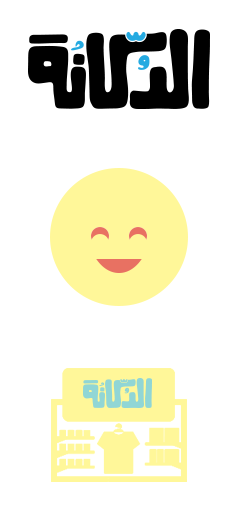
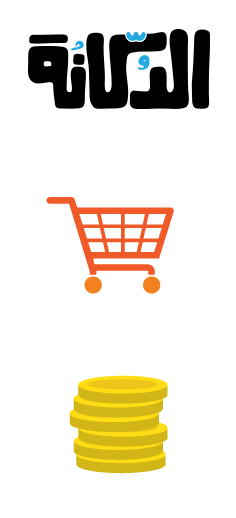
buttons and select one of 2 options pages

Changed region(s): [[0.2076, 0.7104, 0.8008, 0.9575], [0.178, 0.3089, 0.8008, 0.6178]]

diff --git a/css/main.css b/css/main.css
@@ -142,9 +142,9 @@ body {
 }*/
 .VidContainer {
 	margin:10px auto;
-	width:40%;
-	height:40%;
-	max-height:340px;
+	width:50%;
+	height:50%;
+	max-height:400px;
 	border:10px solid #ffffff;
 }
 .VidWrapper {
@@ -174,16 +174,38 @@ body {
 	text-decoration: none;
 }
 .DbtnRed {
-	background: #e87162;
-	border-bottom: 8px solid #b5584c;
+	position: relative;
+    color: #ffffff;
+    text-decoration: none;
+    background-color: #e87162;
+    padding: 10px 15px;
+    -webkit-border-radius: 8px;
+    -moz-border-radius: 8px;
+    border-radius: 8px;
+    -webkit-box-shadow: 0px 9px 0px #b5584c;
+    -moz-box-shadow: 0px 9px 0px #b5584c;
+    box-shadow: 0px 9px 0px #b5584c;
+    margin: 10px auto 0;
+	text-align: center;
+	
+	-webkit-transition: all .01s ease;
+	-moz-transition: all .01s ease;
+	-ms-transition: all .01s ease;
+	-o-transition: all .01s ease;
+	transition: all .01s ease;
+	
+	/* background: #e87162;
+	border-bottom: 8px solid #b5584c; */
 }
-.DbtnRed:hover {
-	background: #B5584C;
-}
+
 .DbtnRed:active {
-	background: #e87162;
-	border-bottom: 8px solid #E87162;
+    -webkit-box-shadow: 0px 3px 0px rgba(219,31,5,1);
+    -moz-box-shadow: 0px 3px 0px rgba(219,31,5,1);
+    box-shadow: 0px 3px 0px rgba(219,31,5,1);
+    position: relative;
+    top: 6px;
 }
+    
 footer {
 	background: #262626;
 	height: 80px;
@@ -208,29 +230,36 @@ footer {
 	background: #A6DEF3;
 }
 .rightContent {
-	width:49.7%;
+	width:50%;
 	height:100%;
 	/*background: #e87162;*/
 	float:right;
 }
 .leftContent {
-	width:49.7%;
+	width:50%;
 	height:100%;
 	/*background: #91d6d5;*/
 	float:left;
 }
-.BuyerContent,.CSContent {
-	margin:40px auto 10px auto;
-	max-width: 450px;
+.BuyerContent{
+	margin:75px auto 0 10%;
+	max-width: 400px;
+}
+
+.CSContent {
+	margin:75px 10% 0 auto;
+	max-width: 400px;
 }
 
 .BuyerContent h1, .CSContent h1 {
-	margin: 0 0 20px 0;
-	color:#FFFFFF;
-	text-align: center;
+	margin: 0 0 0px 0;
+color: #FFFFFF;
+text-align: center;
+font-size: 1.5em;
 }
 .headTitle {
 	position: relative;
+	margin-top: -10px;
 }
 .Title {
 	width:180px;
@@ -246,34 +275,34 @@ footer {
 	line-height: 42px;
 } 
 .SmileyFace {
-	width:138px;
-	height:138px;
-	background: url('../img/assets.png') no-repeat -50px -168px; 
-	position: absolute;
-	top:-114px;
-	left:156px;
+width: 138px;
+height: 138px;
+background: url('../img/assets.png') no-repeat -40px -168px;
+position: absolute;
+top: -114px;
+left: 117px;
 }
 .DokkanaIcon {
-	width:136px;
-	height:114px;
-	background: url('../img/assets.png') no-repeat -50px -368px; 
-	position: absolute;
-	top:-108px;
-	left:156px;
+width: 126px;
+height: 114px;
+background: url('../img/assets.png') no-repeat -62px -355px;
+position: absolute;
+top: -108px;
+left: 145px;
 }
 .leftCurve {
-	width: 42px;
-	height: 46px;
-	position: absolute;
-	left:106px;
-	top:-10px;
+width: 42px;
+height: 46px;
+position: absolute;
+left: 80px;
+top: -10px;
 }
 .rightCurve {
-	width: 42px;
-	height: 46px;
-	position: absolute;
-	right:106px;
-	top:-10px;
+width: 42px;
+height: 46px;
+position: absolute;
+right: 79px;
+top: -10px;
 }
 .leftCurve .triContainer {
 	float:left;
@@ -325,28 +354,28 @@ border-color: transparent transparent transparent #de7323;
 
 }
 .topLeftShadow {
-	width: 0px;
+width: 0px;
 height: 0px;
 border-style: solid;
 border-width: 0 0 10px 14px;
 border-color: transparent transparent #b9601c transparent;
 position: absolute;
-top:-10px;
-left:134px;
+top: -10px;
+left: 109px;
 }
 .topRightShadow {
-	width: 0px;
+width: 0px;
 height: 0px;
 border-style: solid;
 border-width: 10px 0 0 14px;
 border-color: transparent transparent transparent #b9601c;
-position:absolute;
-top:-10px;
-right:134px;
+position: absolute;
+top: -10px;
+right: 108px;
 }
 
 .CSFeatures, .BuyerFeatures {
-	min-height: 200px;
+	min-height: 190px;
 	width: 100%;
 	border-radius:15px;
 	margin-top:-43px;
@@ -358,26 +387,44 @@ right:134px;
 	background: url('../img/ListStyle.png') repeat-y right top;
 	list-style-position: inside;
 	list-style: none;
-	margin-right: 15px;
+	margin: 0 10px 0 0;
 	
 }
 .CSFeatures ul li, .BuyerFeatures ul li {
-	color: #44B7E5;
-    font-size: 22px;
-    font-weight: 100;
-    line-height: 58px;
-    padding-right: 20px;
+color: #666;
+font-size: 1.2em;
+font-weight: 100;
+line-height: 60px;
+padding-right: 20px;
 }
-.DbtnBuyer {
-	background: #FFFFFF;
-	color:#B5584C;
-	border-bottom: 8px solid #b5584c;
+.DbtnBuyer , .DbtnCS{
+position: relative;
+color: #ffffff;
+text-decoration: none;
+background-color: #e87162;
+padding: 10px 15px;
+-webkit-border-radius: 8px;
+-moz-border-radius: 8px;
+border-radius: 8px;
+-webkit-box-shadow: 0px 9px 0px #b5584c;
+-moz-box-shadow: 0px 9px 0px #b5584c;
+box-shadow: 0px 9px 0px #b5584c;
+margin: 22px auto 0;
+text-align: center;
+-webkit-transition: all .01s ease;
+-moz-transition: all .01s ease;
+-ms-transition: all .01s ease;
+-o-transition: all .01s ease;
+transition: all .01s ease;
+font-size: 1.3em;
 }
-.DbtnCS {
-	background: #FFFFFF;
-	color:#5f8988;
-	border-bottom: 8px solid #5f8988;
-}
+ .DbtnBuyer:active , .DbtnCS:active{
+ 	  -webkit-box-shadow: 0px 3px 0px rgba(219,31,5,1);
+    -moz-box-shadow: 0px 3px 0px rgba(219,31,5,1);
+    box-shadow: 0px 3px 0px rgba(219,31,5,1);
+    position: relative;
+    top: 6px;
+ }
 #BuyerSelect, #CSSelect {
 	position: absolute;
 	top:0;

diff --git a/index.html b/index.html
@@ -111,6 +111,7 @@
 						<div class="DokkanaIcon"></div>
 						<div class="leftCurve">
 							<div class="rectangle"></div>
+							
 							<div class="triContainer">
 								<div class="topTri"></div>
 								<div class="bottomTri"></div>
@@ -152,9 +153,13 @@
 			<div class="logo">
 				<a href="#" class="LogoImg">الدكانه</a>
 			</div>
+			buyer
 		</div>
 		<div id="CSSelect">
-			
+			<div class="logo">
+				<a href="#" class="LogoImg">الدكانه</a>
+			</div>
+			CS
 		</div>
 
 		<footer>
@@ -187,8 +192,10 @@
 				$(window).load(function() {
 					 // makes sure the whole site is loaded
 					//$('#preloader-page').delay(100000);
-					$('.loader').delay(5500).fadeOut(); // will first fade out the loading animation
-					$('#preloader-page').delay(5800).fadeOut('slow'); // will fade out the white DIV that covers the website.
+					//$('.loader').delay(5500).fadeOut(); // will first fade out the loading animation
+					$('.loader').delay(350).fadeOut(); // will first fade out the loading animation
+					//$('#preloader-page').delay(5800).fadeOut('slow'); // will fade out the white DIV that covers the website.
+					$('#preloader-page').delay(350).fadeOut('slow'); // will fade out the white DIV that covers the website.
 					$('body').delay(350).css({'overflow':'visible'});
 				})
 			//]]>
@@ -224,6 +231,9 @@
 				});
 				$("#BuyerAction").click(function() {
 					$("#BuyerSelect").fadeIn(800);
+				});
+				$("#CSAction").click(function() {
+					$("#CSSelect").fadeIn(800);
 				});
 			});
 
